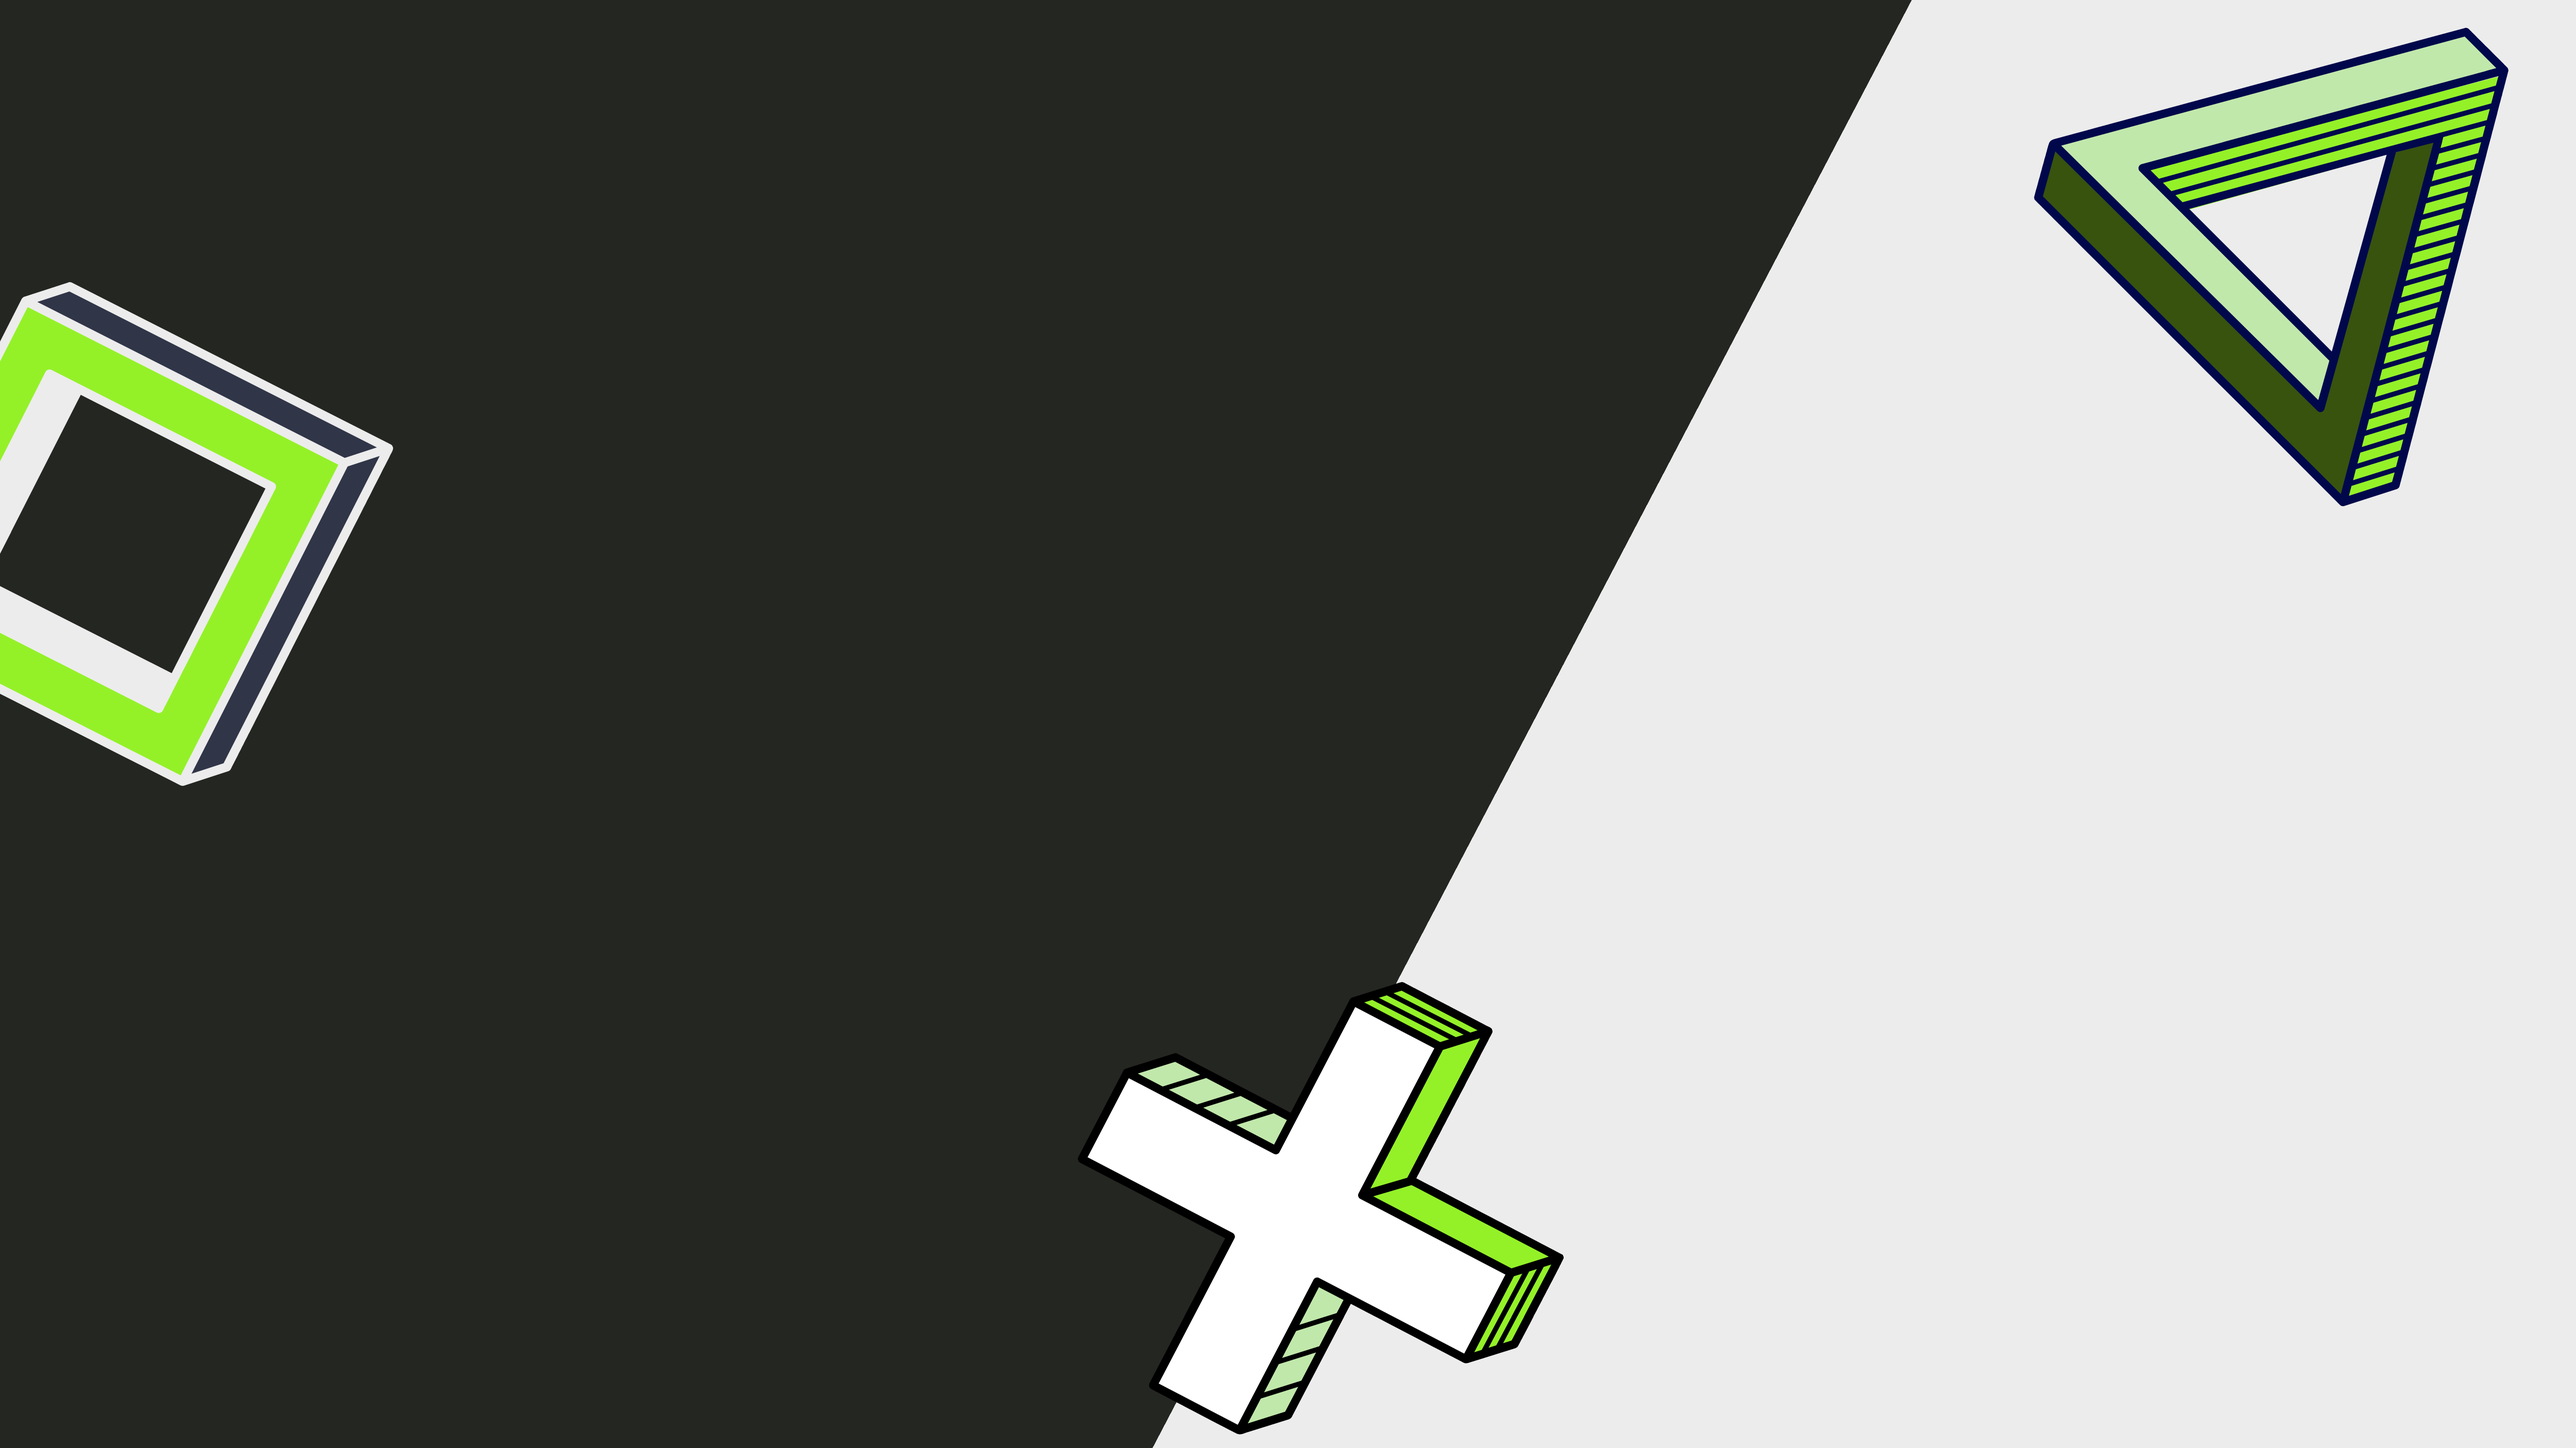
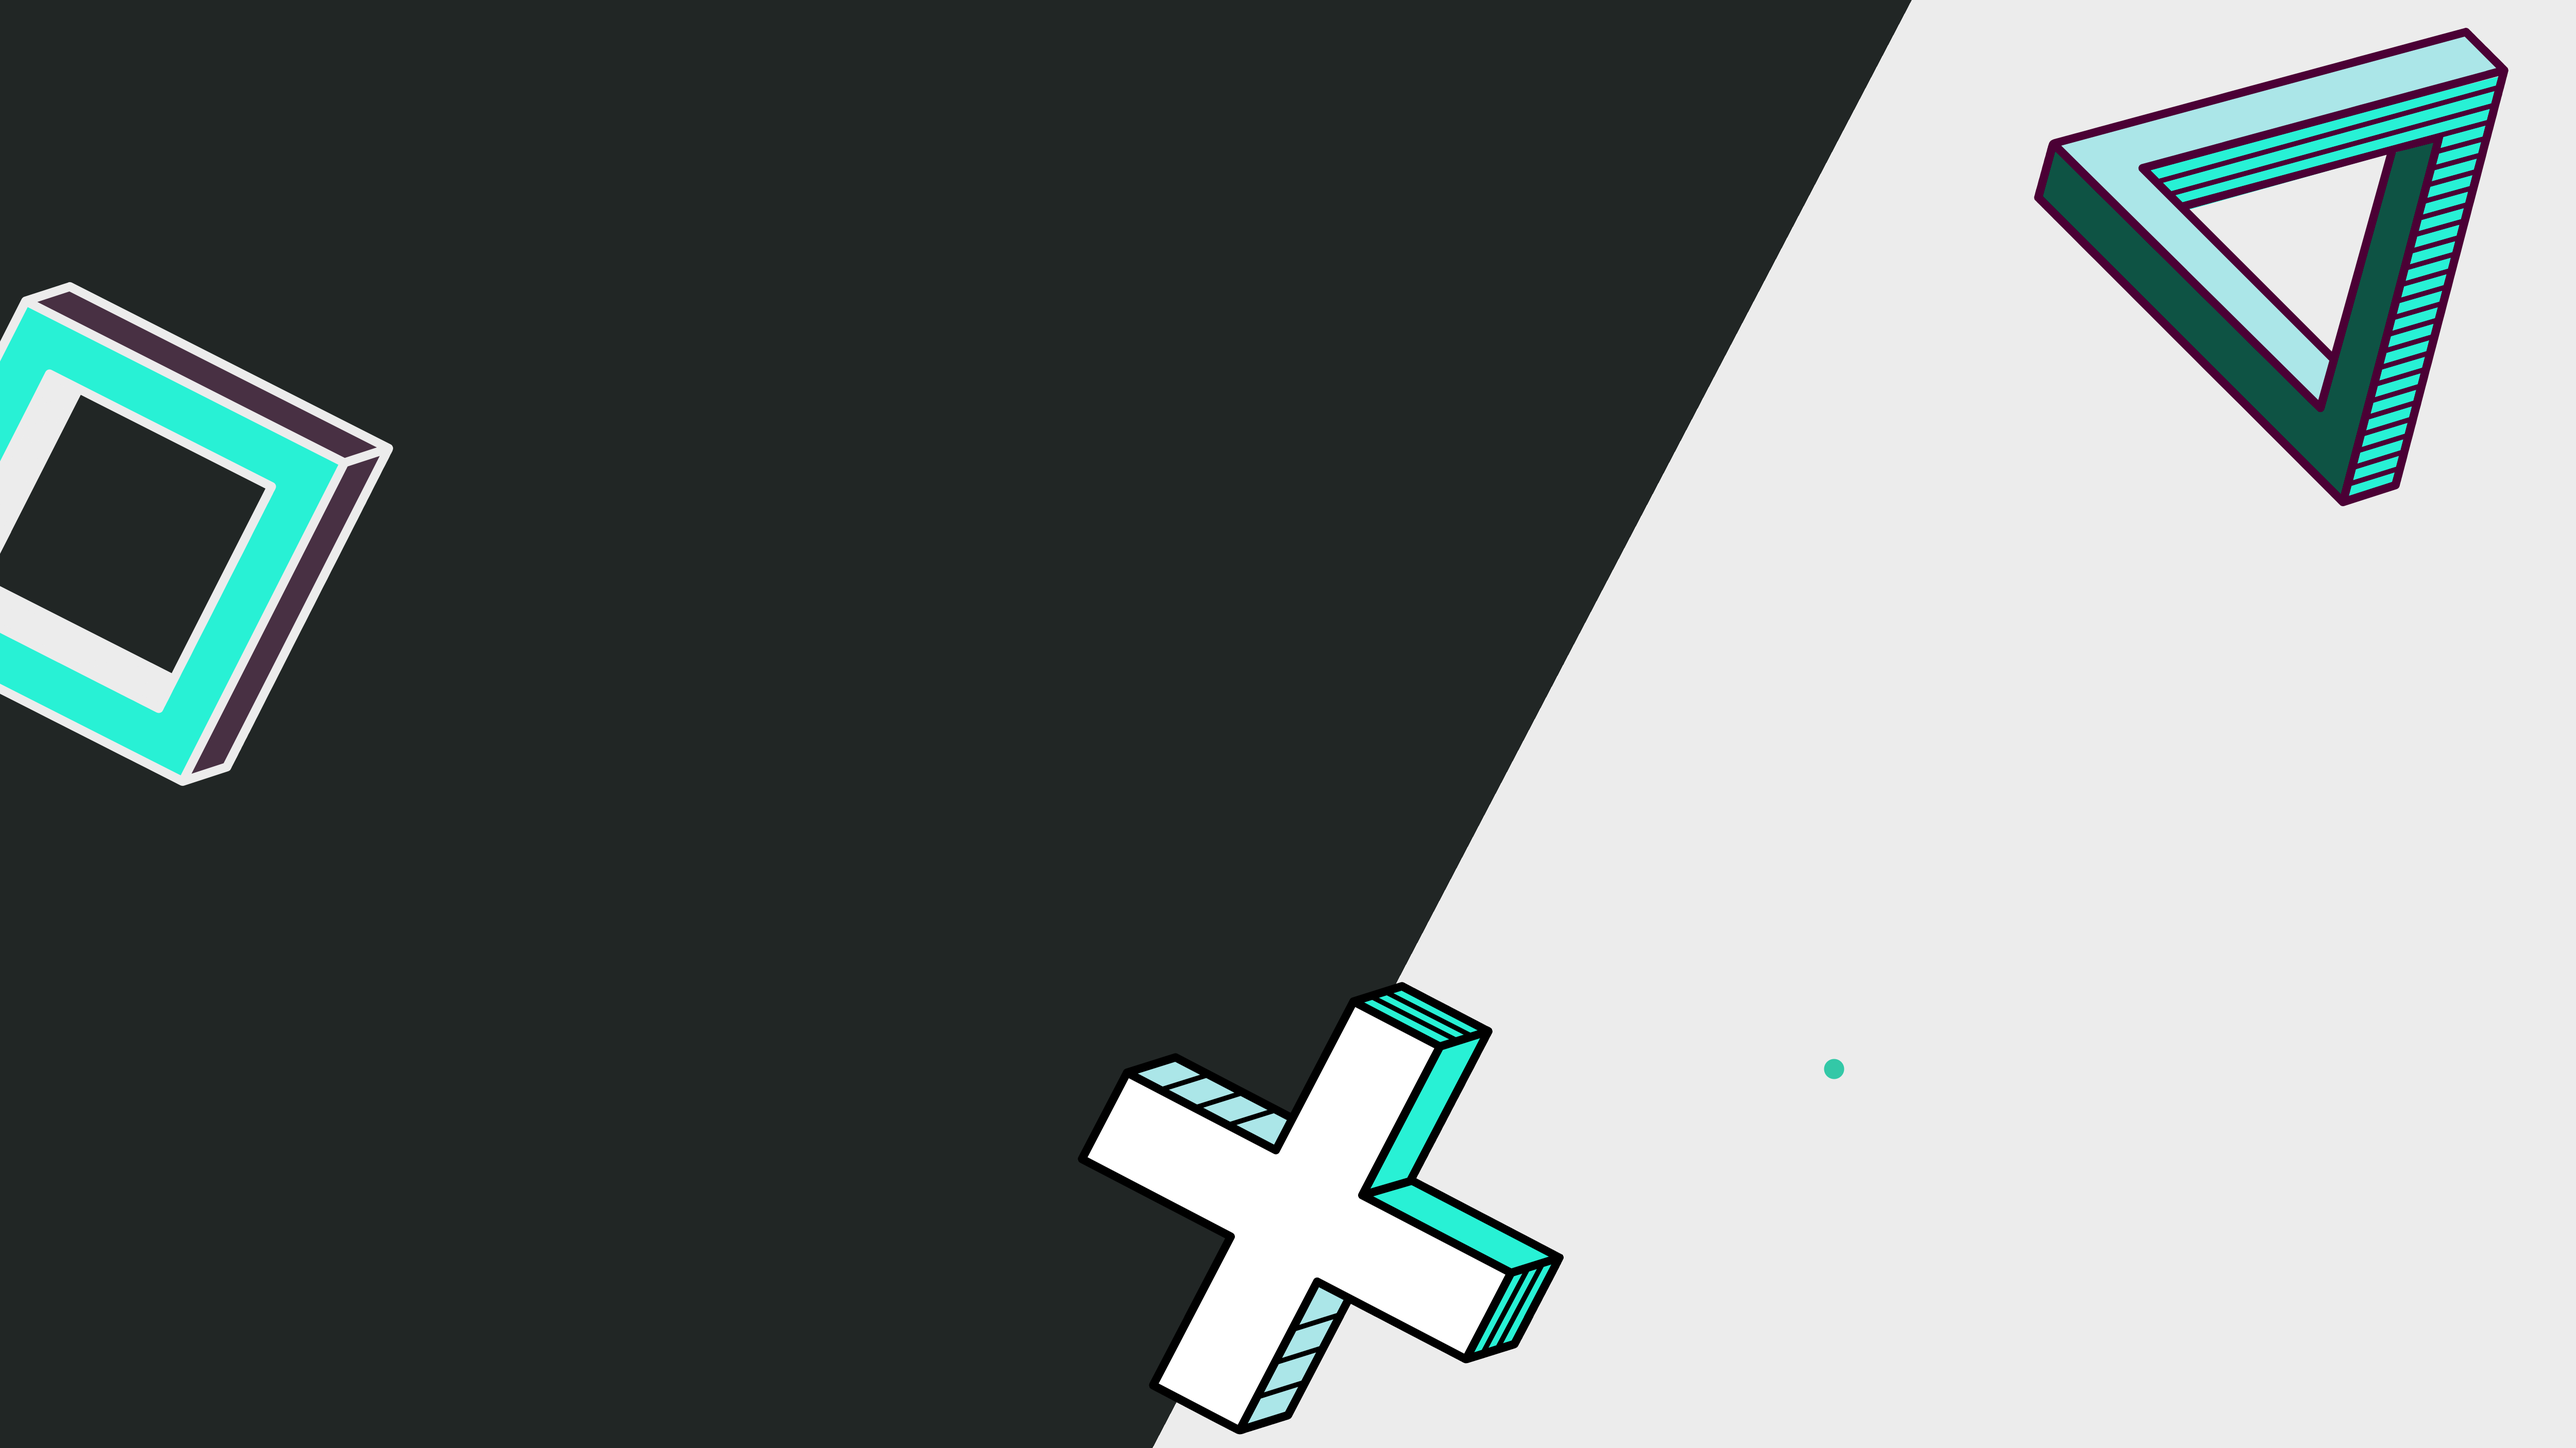
refactor/front: minor visual changes

diff --git a/FRONTEND/src/app/page.tsx b/FRONTEND/src/app/page.tsx
@@ -9,7 +9,7 @@ import logo from "./assets/logop.png";
 
 import {Poppins} from "next/font/google";
 import {StyleSheet, css} from "aphrodite";
-import {slideInLeft, slideInRight} from "react-animations";
+import {slideInRight} from "react-animations";
 
 const poppins = Poppins({
   weight: '400',
@@ -30,6 +30,12 @@ export default function Home() {
       animationName: slideInRight,
       animationDuration: '1s',
       animationTimingFunction: "cubic-bezier(0.2, 0.82, 0.165, 1)",
+    },
+    scale: {
+      transition: 'transform 0.4s ease-in-out',
+      ':hover': {
+        transform: 'scale(1.1)'
+      }
     }
   })
 
@@ -118,7 +124,7 @@ export default function Home() {
           About Us
         </h1>
         <hr className="w-50 border border-1 border-white opacity-75 mb-5" />
-        <div className="d-flex justify-content-center z-1">
+        <div className="d-flex justify-content-center flex-wrap z-1">
           <Image
             src={logo}
             width={300}
@@ -127,8 +133,8 @@ export default function Home() {
             objectFit="contain"
           >
           </Image>
-          <div className="col-1"></div>
-          <p className="text-white col-3 mt-5">
+          <div className="col-0 col-md-1 col-lg-1"></div>
+          <p className={ `text-white col-9 col-md-3 mt-5 m-3 ${css(styles.scale)}` }>
             We are a team of developers who are passionate about coding and want to share our passion with the world. We believe that coding is a skill that can be developed and improved with practice. Our platform is designed to help you improve your coding skills through friendly competition and self-development. We hope you enjoy using our platform and look forward to seeing you at our next competition!
           </p>
 

diff --git a/FRONTEND/src/app/components/competition_card/CompetitionCard.tsx b/FRONTEND/src/app/components/competition_card/CompetitionCard.tsx
@@ -2,6 +2,8 @@
 import {Competition} from "@/app/models/Competition";
 import Card from "../card/Card";
 import {useRouter} from "next/navigation";
+import {StyleSheet, css} from "aphrodite";
+import Link from "next/link";
 
 export default function CompetitionCard({
   competition,
@@ -10,12 +12,23 @@ export default function CompetitionCard({
 }) {
   const router = useRouter();
 
+  const styles = StyleSheet.create({
+    hover: {
+      transition: 'transform 0.2s ease-in-out',
+      ':hover': {
+        transform: 'scale(1.02)'
+      }
+    },
+  })
+
   const handleDetailsClick = () => {
     router.push(`/pages/competitionDetail/${competition.id}`);
   };
 
   return (
-    <div className="col-md-6 col-12 m-sm-3 my-3" style={{height: "12rem"}}>
+    <Link href={`/pages/competitionDetail/${competition.id}`}
+      className={`col-md-6 col-12 m-sm-3 my-3 text-decoration-none ${css(styles.hover)}`}
+      style={{height: "12.5rem"}}>
       <Card>
         <div className="card-body d-flex flex-column bg-grey rounded rounded-3">
           <div className="card-title fw-bold fs-4 text-white text-truncate">
@@ -40,6 +53,6 @@ export default function CompetitionCard({
           </button>
         </div>
       </Card>
-    </div>
+    </Link>
   );
 }

diff --git a/FRONTEND/src/app/components/navbar/Navbar.tsx b/FRONTEND/src/app/components/navbar/Navbar.tsx
@@ -1,9 +1,7 @@
 "use client";
 
 import {AuthContext, AuthContextType} from "@/app/contexts/AuthContext";
-import {User} from "@/app/models/User";
 import {Logout} from "@/app/services/AuthService";
-import {GetUserRoles, GetUserById} from "@/app/services/UserService";
 import {getWithExpiry} from "@/app/utils/StorageGetter";
 
 import Link from "next/link";
@@ -27,13 +25,13 @@ export default function Navbar() {
   //for editing the user and renaming
 
   const handleLogout = async () => {
+    router.replace("/pages/login", {scroll: false});
     const result = await Logout(context.user.email);
     if (result.error) {
       toast.error(result.error);
       return;
     }
     context.logout();
-    router.replace("/pages/login", {scroll: false});
   };
 
   return (

diff --git a/FRONTEND/src/app/components/card/Card.tsx b/FRONTEND/src/app/components/card/Card.tsx
@@ -3,7 +3,7 @@ import React from "react";
 const Card = ({ children }: { children?: React.ReactNode }) => {
   return (
     <div
-      className="card h-100 w-100 rounded rounded-3 bg-grey text-white border border-1 border-green
+      className="card h-100 w-100 rounded rounded-3 bg-grey text-white border border-2 border-green
        "
     >
       {children}

diff --git a/FRONTEND/styles/_variables.scss b/FRONTEND/styles/_variables.scss
@@ -7,7 +7,7 @@ $background: #0d0d0d;
 $darker: #0a0909;
 $dark: #151417;
 $grey: #252429;
-$green: #28f7c7;
+$green: #29ffe2;
 $success: #4BB543;
 $primary: #1b72ff;
 $danger: #ff0000;
